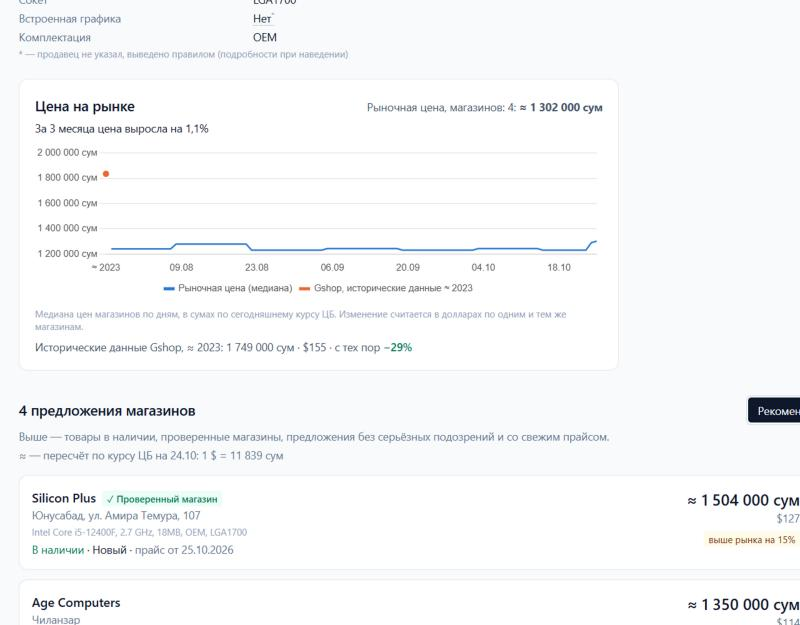
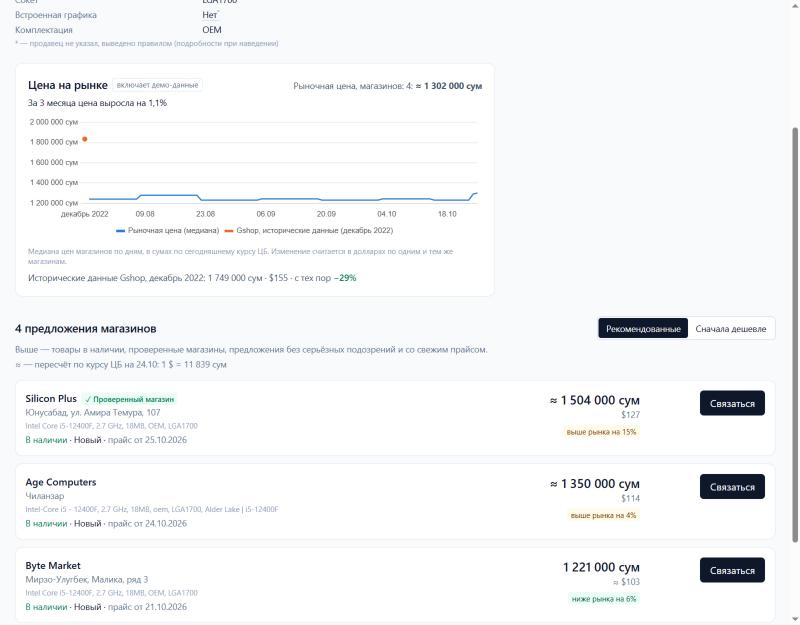
Gshop label from its date (December 2022) everywhere; 'includes demo data' mark with a hint on market charts and indices

diff --git a/frontend/src/components/Market.jsx b/frontend/src/components/Market.jsx
@@ -2,7 +2,7 @@ import { useMemo } from 'react'
 import { useTranslation } from 'react-i18next'
 import { Link } from 'react-router-dom'
 import LineChart, { SERIES_COLORS } from './LineChart'
-import { formatDayMonth, formatPrice, roundSum } from '../services/format'
+import { formatDayMonth, formatMonthYear, formatPrice, roundSum } from '../services/format'
 
 export const PERIODS = ['week', 'month', 'quarter']
 // Categories drawn on the index chart, each always in its own colour (colour follows the category)
@@ -18,6 +18,17 @@ const PCT_COLOR = (v) => (v > 0.5 ? 'text-rose-700' : v < -0.5 ? 'text-emerald-7
 
 export function PctText({ value }) {
   return <span className={`font-medium ${PCT_COLOR(value)}`}>{formatPct(value)}</span>
+}
+
+// Small mark where numbers are computed with the invented demo stores; the hint explains it
+export function DemoNote({ show }) {
+  const { t } = useTranslation()
+  if (!show) return null
+  return (
+    <span title={t('market.demoHint')} className="cursor-help whitespace-nowrap rounded border border-dashed border-slate-300 px-1.5 py-0.5 text-xs font-normal text-slate-500">
+      {t('market.demoNote')}
+    </span>
+  )
 }
 
 // "ниже рынка на 8%" / "по рынку" / "выше рынка на 12%"
@@ -41,7 +52,7 @@ export function ChangePhrase({ change }) {
   return <span>{t(`market.change.${key}`, { period, pct: formatPct(Math.abs(change.pct)).replace('+', '') })}</span>
 }
 
-// Product card: market price chart (median, in sums by today's rate), the change phrase, the ≈ 2023 point
+// Product card: market price chart (median, in sums by today's rate), the change phrase, the old price list point
 export function ProductMarket({ market, usdRate }) {
   const { t } = useTranslation()
   const info = market?.conditions?.new
@@ -49,11 +60,11 @@ export function ProductMarket({ market, usdRate }) {
   const toSum = (usd) => (usdRate ? roundSum(usd * usdRate) : usd)
   const chart = useMemo(() => {
     if (!info || info.series.length < 2) return null
-    const labels = [...(archive ? [t('market.archiveShort')] : []), ...info.series.map((p) => formatDayMonth(p.date))]
+    const labels = [...(archive ? [formatMonthYear(archive.date)] : []), ...info.series.map((p) => formatDayMonth(p.date))]
     const pad = archive ? [null] : []
     const datasets = [{ label: t('market.marketPrice'), color: SERIES_COLORS[0], data: [...pad, ...info.series.map((p) => toSum(p.usd))] }]
     if (archive) {
-      datasets.push({ label: t('market.archiveLabel', { store: archive.store }), color: SERIES_COLORS[1], points: 5,
+      datasets.push({ label: t('market.archiveLabel', { store: archive.store, date: formatMonthYear(archive.date) }), color: SERIES_COLORS[1], points: 5,
         data: [toSum(archive.price_usd), ...info.series.map(() => null)] })
     }
     return { labels, datasets }
@@ -63,7 +74,7 @@ export function ProductMarket({ market, usdRate }) {
   return (
     <div className="mt-6 max-w-3xl rounded-xl border border-slate-200 bg-white p-5">
       <div className="flex items-baseline justify-between gap-4">
-        <h2 className="text-lg font-semibold">{t('market.productTitle')}</h2>
+        <h2 className="flex items-center gap-2 text-lg font-semibold">{t('market.productTitle')} <DemoNote show={info?.includes_demo} /></h2>
         {info?.market_usd != null && (
           <p className="text-sm text-slate-600">
             {t('market.marketNow', { stores: info.stores })}: <b>≈ {formatValue(toSum(info.market_usd))}</b>
@@ -81,7 +92,7 @@ export function ProductMarket({ market, usdRate }) {
       )}
       {archive && (
         <p className="mt-2 text-sm text-slate-600">
-          {t('market.archiveLine', { store: archive.store })}: {archive.price_uzs != null && <>{formatPrice(archive.price_uzs, 'UZS')} · </>}
+          {t('market.archiveLine', { store: archive.store, date: formatMonthYear(archive.date) })}: {archive.price_uzs != null && <>{formatPrice(archive.price_uzs, 'UZS')} · </>}
           {formatPrice(archive.price_usd, 'USD')}
           {info?.market_usd != null && <> · {t('market.sinceArchive')} <PctText value={(info.market_usd / archive.price_usd - 1) * 100} /></>}
         </p>
@@ -91,7 +102,7 @@ export function ProductMarket({ market, usdRate }) {
 }
 
 // Category index: period switch, chart of the main categories, table of all of them
-export function IndexSection({ indices, period, onPeriod }) {
+export function IndexSection({ indices, period, onPeriod, demo }) {
   const { t } = useTranslation()
   const chart = useMemo(() => {
     const cats = CHART_CATEGORIES.filter((c) => indices.series[c])
@@ -106,7 +117,7 @@ export function IndexSection({ indices, period, onPeriod }) {
   return (
     <section className="rounded-xl border border-slate-200 bg-white p-6">
       <div className="flex items-center justify-between gap-4">
-        <h2 className="text-lg font-semibold">{t('market.indexTitle')}</h2>
+        <h2 className="flex items-center gap-2 text-lg font-semibold">{t('market.indexTitle')} <DemoNote show={demo} /></h2>
         <div className="flex rounded-md border border-slate-300 bg-white p-0.5 text-sm">
           {PERIODS.map((p) => (
             <button key={p} onClick={() => onPeriod(p)}

diff --git a/frontend/src/pages/MarketPage.jsx b/frontend/src/pages/MarketPage.jsx
@@ -1,15 +1,15 @@
 import { useEffect, useState } from 'react'
 import { useTranslation } from 'react-i18next'
 import { ErrorText } from '../components/AuthForm'
-import { IndexSection, PctText, ProductLink } from '../components/Market'
+import { DemoNote, IndexSection, PctText, ProductLink } from '../components/Market'
 import api, { errorKey } from '../services/api'
-import { formatPrice, roundSum } from '../services/format'
+import { formatMonthYear, formatPrice, roundSum } from '../services/format'
 
-function Movers({ title, items, sum }) {
+function Movers({ title, items, sum, demo }) {
   const { t } = useTranslation()
   return (
     <section className="rounded-xl border border-slate-200 bg-white p-6">
-      <h2 className="text-lg font-semibold">{title}</h2>
+      <h2 className="flex items-center gap-2 text-lg font-semibold">{title} <DemoNote show={demo} /></h2>
       {items.length === 0 ? <p className="mt-3 text-sm text-slate-500">{t('market.notEnoughData')}</p> : (
         <ul className="mt-3 grid gap-1.5 text-sm">
           {items.map((m) => (
@@ -38,6 +38,7 @@ export default function MarketPage() {
 
   if (error) return <ErrorText>{error}</ErrorText>
   if (!data) return null
+  const then = data.archive[0] ? formatMonthYear(data.archive[0].archive.date) : ''
   const sum = (usd) => (data.usd_rate ? `≈ ${formatPrice(roundSum(usd * data.usd_rate), 'UZS')}` : formatPrice(usd, 'USD'))
 
   return (
@@ -46,19 +47,19 @@ export default function MarketPage() {
         <h1 className="text-2xl font-semibold tracking-tight">{t('market.pageTitle')}</h1>
         <p className="mt-1 text-slate-500">{t('market.pageHint')}</p>
       </div>
-      <IndexSection indices={data.indices} period={period} onPeriod={setPeriod} />
+      <IndexSection indices={data.indices} period={period} onPeriod={setPeriod} demo={data.includes_demo} />
       <div className="grid grid-cols-2 gap-6">
-        <Movers title={t('market.moversUp')} items={data.movers.up} sum={sum} />
-        <Movers title={t('market.moversDown')} items={data.movers.down} sum={sum} />
+        <Movers title={t('market.moversUp')} items={data.movers.up} sum={sum} demo={data.includes_demo} />
+        <Movers title={t('market.moversDown')} items={data.movers.down} sum={sum} demo={data.includes_demo} />
       </div>
       <section className="rounded-xl border border-slate-200 bg-white p-6">
-        <h2 className="text-lg font-semibold">{t('market.archiveTitle')}</h2>
-        <p className="mt-1 text-sm text-slate-500">{t('market.archiveHint')}</p>
+        <h2 className="flex items-center gap-2 text-lg font-semibold">{t('market.archiveTitle', { date: then })} <DemoNote show={data.includes_demo} /></h2>
+        <p className="mt-1 text-sm text-slate-500">{t('market.archiveHint', { date: then })}</p>
         <table className="mt-4 w-full text-sm">
           <thead className="text-left text-slate-500">
             <tr>
               <th className="py-1 font-normal">{t('market.table.product')}</th>
-              <th className="py-1 text-right font-normal">{t('market.archiveShort')}</th>
+              <th className="py-1 text-right font-normal">{then}</th>
               <th className="py-1 text-right font-normal">{t('market.table.now')}</th>
               <th className="py-1 text-right font-normal">{t('market.table.change')}</th>
             </tr>
@@ -80,7 +81,7 @@ export default function MarketPage() {
             ))}
           </tbody>
         </table>
-        <p className="mt-3 text-xs text-slate-400">{t('market.archiveNote')}</p>
+        <p className="mt-3 text-xs text-slate-400">{t('market.archiveNote', { date: then })}</p>
       </section>
     </div>
   )

diff --git a/frontend/src/pages/SellerAnalyticsPage.jsx b/frontend/src/pages/SellerAnalyticsPage.jsx
@@ -2,7 +2,7 @@ import { useEffect, useState } from 'react'
 import { useTranslation } from 'react-i18next'
 import { Link } from 'react-router-dom'
 import { ErrorText } from '../components/AuthForm'
-import { IndexSection, MarketLabel, ProductLink } from '../components/Market'
+import { DemoNote, IndexSection, MarketLabel, ProductLink } from '../components/Market'
 import api, { errorKey } from '../services/api'
 import { formatPrice, roundSum } from '../services/format'
 
@@ -34,7 +34,7 @@ export default function SellerAnalyticsPage() {
       </div>
 
       <section className="rounded-xl border border-slate-200 bg-white p-6">
-        <h2 className="text-lg font-semibold">{t('market.positionTitle')}</h2>
+        <h2 className="flex items-center gap-2 text-lg font-semibold">{t('market.positionTitle')} <DemoNote show={data.includes_demo} /></h2>
         <p className="mt-1 text-sm text-slate-500">{t('market.positionHint')}</p>
         <div className="mt-4 grid grid-cols-4 gap-4">
           {['below', 'at', 'above'].map((k) => (
@@ -88,7 +88,7 @@ export default function SellerAnalyticsPage() {
         )}
       </section>
 
-      <IndexSection indices={data.indices} period={period} onPeriod={setPeriod} />
+      <IndexSection indices={data.indices} period={period} onPeriod={setPeriod} demo={data.includes_demo} />
     </div>
   )
 }

diff --git a/frontend/src/services/format.js b/frontend/src/services/format.js
@@ -25,6 +25,12 @@ export function formatDayMonth(iso) {
   return new Intl.DateTimeFormat(i18n.language || 'ru', { day: '2-digit', month: '2-digit' }).format(new Date(iso))
 }
 
+// "декабрь 2022" for an old price list date
+export function formatMonthYear(iso) {
+  const text = new Intl.DateTimeFormat(i18n.language || 'ru', { month: 'long', year: 'numeric' }).format(new Date(iso))
+  return text.replace(/\s*г\.$/, '')
+}
+
 // Converted amounts are approximate: sums rounded to 1 000, dollars to whole dollars
 export const roundSum = (value) => Math.round(value / 1000) * 1000
 export const roundUsd = (value) => Math.round(value)

diff --git a/backend/app/services/market.py b/backend/app/services/market.py
@@ -41,6 +41,11 @@ class MarketData:
     offer_usd: dict[int, float] = field(default_factory=dict)  # in-stock offer -> its USD price now
     offers: list[tuple[int, int, int, str]] = field(default_factory=list)  # (offer, product, store, condition)
     category: dict[int, str] = field(default_factory=dict)  # product -> category slug
+    # Stores whose prices are invented (scripts/seed_demo.py history is_demo): the pages say "includes demo data"
+    demo_stores: set[int] = field(default_factory=set)
+
+    def has_demo(self, key) -> bool:
+        return any(s in self.demo_stores for s in self.per_store.get(key, {}))
 
     def now(self, key) -> float | None:
         values = self.series.get(key)
@@ -83,10 +88,13 @@ def build_market(db: Session, today: date) -> MarketData:
     ).all()
     slugs = dict(db.execute(select(Category.id, Category.slug)).all())
     history: dict[int, list[tuple[date, float]]] = {}
-    for offer_id, price, currency, at in db.execute(
-        select(PriceHistory.offer_id, PriceHistory.price, PriceHistory.currency, PriceHistory.recorded_at)
-        .order_by(PriceHistory.recorded_at)
+    demo_offers: set[int] = set()
+    for offer_id, price, currency, at, is_demo in db.execute(
+        select(PriceHistory.offer_id, PriceHistory.price, PriceHistory.currency, PriceHistory.recorded_at,
+               PriceHistory.is_demo).order_by(PriceHistory.recorded_at)
     ):
+        if is_demo:
+            demo_offers.add(offer_id)
         usd = rates.usd(price, currency, at.date())
         if usd is not None:
             history.setdefault(offer_id, []).append((at.date(), usd))
@@ -98,6 +106,8 @@ def build_market(db: Session, today: date) -> MarketData:
             continue
         cond = condition.value if isinstance(condition, Condition) else condition
         md.offers.append((offer_id, product_id, store_id, cond))
+        if offer_id in demo_offers:
+            md.demo_stores.add(store_id)
         md.offer_usd[offer_id] = usd_now
         md.category[product_id] = slugs.get(category_id, "other")
         points = history.get(offer_id, [])
@@ -182,6 +192,7 @@ def product_market(db: Session, product_id: int, today: date | None = None) -> d
             series = md.series.get(key) or []
             result["conditions"][cond] = {
                 "stores": md.stores.get(key, 0),
+                "includes_demo": md.has_demo(key),
                 "market_usd": round(market, 2) if market is not None else None,
                 "change": change(md, key),
                 "series": [{"date": d.isoformat(), "usd": round(v, 2)} for d, v in zip(md.dates, series)
@@ -248,7 +259,7 @@ def movers(db: Session, md: MarketData, days: int = HISTORY_DAYS, limit: int = 8
 
 
 def popular_with_archive(db: Session, md: MarketData, limit: int = 10) -> list[dict]:
-    """"≈ 2023 -> now" for popular products that are both in an old price list and on the market now."""
+    """"Then (old price list) -> now" for popular products that are both in an old price list and on the market now."""
     candidates = [pid for (pid, cond), v in md.series.items() if cond == "new" and v[-1] is not None]
     archive = _archive(db, candidates)
     ranked = sorted(archive, key=lambda pid: (-md.stores[(pid, "new")], -md.now((pid, "new"))))[:limit]

diff --git a/backend/tests/test_market.py b/backend/tests/test_market.py
@@ -170,3 +170,16 @@ def test_product_market_has_archive_point_without_build_only_prices(db):
     assert result["archive"]["price_usd"] == 155 and result["archive"]["store"] == "Gshop"
     assert result["conditions"]["new"]["market_usd"] == 105
     assert result["conditions"]["new"]["change"] is None  # history of one day only
+
+
+def test_demo_history_marks_its_stores(db):
+    s = _stores(db, 3)
+    p, real = _product(db, "Kingston Fury 16GB"), _product(db, "Lexar Ares 32GB")
+    demo = _offer(db, p, s[0], 100)
+    demo.price_history[0].is_demo = True
+    _offer(db, p, s[1], 110)
+    _offer(db, real, s[1], 50)
+    _offer(db, real, s[2], 52)
+    md = market.build_market(db, TODAY)
+    assert md.demo_stores == {s[0].id}
+    assert md.has_demo((p.id, "new")) and not md.has_demo((real.id, "new"))

diff --git a/backend/app/api/market.py b/backend/app/api/market.py
@@ -16,7 +16,11 @@ def usd_rate_info(db: Session) -> dict:
 
 @router.get("/overview")
 def overview(period: str = PERIOD, db: Session = Depends(get_db)):
-    """Public "Prices on the market": category indices, biggest risers and fallers, "≈ 2023 -> now"."""
+    """Public "Prices on the market": category indices, biggest risers and fallers, "then -> now" by old price lists.
+
+    `includes_demo`: some market prices are computed with the invented demo stores.
+    """
     md = market_data(db)
     return {"indices": index_table(md, period), "movers": movers(db, md), "archive": popular_with_archive(db, md),
+            "includes_demo": bool(md.demo_stores),
             **usd_rate_info(db)}

diff --git a/backend/app/db/models.py b/backend/app/db/models.py
@@ -82,7 +82,7 @@ class Store(Base):
     address: Mapped[str | None] = mapped_column(String(255))
     district: Mapped[str | None] = mapped_column(String(128))
     is_verified: Mapped[bool] = mapped_column(Boolean, default=False)
-    # Archive source (an old price list of a shop, e.g. Gshop 2023): its prices go only to the price history
+    # Archive source (an old price list of a shop, e.g. Gshop, Dec 2022): its prices go only to the price history
     is_archive: Mapped[bool] = mapped_column(Boolean, default=False, server_default="0")
 
     owner: Mapped[User] = relationship(back_populates="stores")

diff --git a/backend/scripts/load_archive.py b/backend/scripts/load_archive.py
@@ -3,7 +3,7 @@
 The price date is taken from the file metadata (last saved), unless given. Re-running updates the same rows.
 Usage (from backend/):
   .venv/Scripts/python.exe scripts/load_archive.py "F:/claudy/samples/old_store_2023.xlsx" --store Gshop
-  .venv/Scripts/python.exe scripts/load_archive.py <file> --store Gshop --date 2023-06-15
+  .venv/Scripts/python.exe scripts/load_archive.py <file> --store Gshop --date 2022-12-08
   .venv/Scripts/python.exe scripts/load_archive.py --store Gshop --delete
 """
 

diff --git a/backend/app/api/seller.py b/backend/app/api/seller.py
@@ -186,4 +186,4 @@ def market_analytics(period: str = Query("quarter", pattern=f"^({'|'.join(PERIOD
     store = _require_store(db, user)
     md = market_data(db)
     return {"indices": index_table(md, period), "position": seller_position(db, md, store.id),
-            "missing": missing_popular(db, md, store.id), **usd_rate_info(db)}
+            "missing": missing_popular(db, md, store.id), "includes_demo": bool(md.demo_stores), **usd_rate_info(db)}

diff --git a/docs/history.md b/docs/history.md
@@ -178,7 +178,7 @@ npm run dev        # http://localhost:5173 (backend должен быть зап
 - Тест `tests/test_seed_demo.py`: одна карточка у 4 магазинов, магазин в UZS, флаг только у дешёвого товара PC Galaxy, повторный запуск не меняет число пользователей, магазинов, предложений, истории и флагов. Всего тестов 62.
 
 ### Gshop (`F:\claudy\samples\old_store_2023.xlsx`) — заметки для фаз 6 и 7 (в фазе 6 загружен в архив цен, см. «Фаза 6»)
-- Цены 2023 года → только как исторические данные в фазе 6 (с датой 2023, подпись «исторические данные»), не в каталог и не в текущие предложения.
+- Цены декабря 2022 года (по метаданным файла) → только как исторические данные в фазе 6 (подпись «исторические данные, декабрь 2022»), не в каталог и не в текущие предложения.
 - Структура (фаза 7): 2 листа («Комплектующие, мониторы», «Периферия, роутеры, кресла»), ~490 строк и 10 столбцов на листе; **три таблицы «наименование | цена» бок о бок**, у каждой свои подзаголовки разделов («ПРОЦЕССОРЫ INTEL», «КОРПУСА LIAN LI», «ИГРОВЫЕ МОНИТОРЫ PIXEL»), иногда два уровня (бренд → тип: «ПЕРИФЕРИЯ JBL» → «НАУШНИКИ»). Лист нужно делить на вертикальные блоки и отслеживать разделы в каждом отдельно.
 - Строка «Оплата производится только в национальной валюте!!!» вверху, но цены — явно в USD (58, 155, 335): эта строка не определяет валюту, показывать продавцу как подсказку.
 - У многих позиций цены нет (пустая ячейка) → «нет в наличии». Характеристики через обратную косую черту («2С\4T 3,6-4,0 GHz»), неразрывные пробелы, кириллические буквы внутри моделей («11700К»), опечатки («Curverd»), пометки «(Tray)/(box)».
@@ -320,7 +320,7 @@ npm run dev        # http://localhost:5173 (backend должен быть зап
 - Реализация: `services/market.py` (расчёт в памяти ~0,3 с на 3,5 тыс. предложений, кэш до изменения предложений или истории); API — блок `market` в карточке товара, `/api/market/overview`, `/api/seller/analytics`. Тесты — `tests/test_market.py`.
 
 ### Исторические данные Gshop
-- Дата прайса — из метаданных файла: **сохранён 08.12.2022** (создан в 2018). Содержимое соответствует: самые новые позиции — RTX 4080, i7-13700KF, Z790 (осень 2022), моделей 2023 года (RTX 4060, i5-13400, Ryzen 7800X3D) нет. В интерфейсе подпись «исторические данные, ≈ 2023», как решено; в базе хранится точная дата, курс ЦБ на неё — 11 284,90 сум.
+- Дата прайса — из метаданных файла: **сохранён 08.12.2022** (создан в 2018). Содержимое соответствует: самые новые позиции — RTX 4080, i7-13700KF, Z790 (осень 2022), моделей 2023 года (RTX 4060, i5-13400, Ryzen 7800X3D) нет. В интерфейсе подпись «декабрь 2022» (решение Азиза; берётся из даты в базе, а не из текста), курс ЦБ на эту дату — 11 284,90 сум.
 - Загружается **только в архив** (`archive_prices`): не в текущие предложения, не в каталог, не в Anti-Fraud. Магазин Gshop отмечен `stores.is_archive` (войти в него нельзя — случайный пароль). Команда: `scripts/load_archive.py "F:/claudy/samples/old_store_2023.xlsx" --store Gshop` (повторный запуск обновляет те же строки, `--delete` удаляет архив магазина).
 - Поддержка блоков (`services/sheet_blocks.py`, пригодится в фазе 7): столбцы цен находятся по содержимому (≥30% чисел), слева от каждого — название; поэтому работает и когда у среднего блока нет заголовка «Наименование». Подзаголовки разделов отслеживаются в каждом блоке отдельно, два уровня («ПЕРИФЕРИЯ JBL / НАУШНИКИ»); товар без цены, написанный капсом, отличается от заголовка по коду модели («MSI PRO B660M-E LGA 1700 DDR4»). «Оплата … в национальной валюте!!!» — объявление магазина, не товар и не валюта (цены — USD). «(Только в сборках)» → пометка `only_in_builds`, такие цены в сравнения не идут.
 - Итог разбора: 2 листа × 3 блока, **2 089 строк товаров, с ценой 1 316** (уникальных 1 307), без цены 773, «только в сборках» 6.
@@ -328,8 +328,8 @@ npm run dev        # http://localhost:5173 (backend должен быть зап
 - Почему мало: за ~4 года ассортимент сменился (RTX 30-й серии, Z690, DDR4-комплекты, AM4 почти ушли из продажи), а где модель та же, магазины продают другие модификации (Lian Li LANCOOL 205 ≠ LANCOOL 205 MESH, MSI RTX 3050 VENTUS 2X 8G ≠ VENTUS 2X XS OC). Примеры несопоставленных: «MSI GeForce RTX 3070 GAMING Z TRIO 8G» (такой карточки нет), «Arctic Cooling Freezer 50 TR», «ID Cooling AuraFlow X240», «Samsung 980 PRO 1TB Heatsink» (в каталоге только «Samsung 980 1TB»), «Lian Li LANCOOL 205 Black» (в каталоге только MESH).
 - Сопоставленные: процессоры Intel 12–13 поколения (8), AMD Ryzen 5600X / 5700X / 5800X, корпуса Jonsbo / Sharkoon / Thermaltake / Cooler Master, БП MSI A550BN и Lian Li SP750, СЖО MSI и Jonsbo, гарнитуры MSI / Sharkoon / Edifier, кресло MSI CH120.
 
-### Цены: декабрь 2022 (≈ 2023) → октябрь 2026, USD
-| Товар | ≈ 2023 (Gshop) | Сейчас (медиана, магазинов) | Изменение |
+### Цены: декабрь 2022 → октябрь 2026, USD
+| Товар | Декабрь 2022 (Gshop) | Сейчас (медиана, магазинов) | Изменение |
 |---|---|---|---|
 | AMD Ryzen 7 5700X | $220 | $128,5 (4) | −41,6% |
 | AMD Ryzen 5 5600X | $180 | $115 (4) | −36,1% |
@@ -341,16 +341,17 @@ npm run dev        # http://localhost:5173 (backend должен быть зап
 | Intel Core i7-12700K | $390 | $279 (2) | −28,5% |
 | Intel Core i3-12100F | $102 | $87 (3) | −14,7% |
 | Корпус Jonsbo UMX6-G Silver | $156 | $145 (3) | −7,1% |
-- Вывод: модели, которые в конце 2022 года были новинками, к 2026 году подешевели в долларах на 15–40% (процессоры — на 30–40%), корпуса почти не дешевеют. Курс за это время вырос с 11 285 до 11 839 сум за доллар (+5%), поэтому в сумах снижение немного меньше. Оговорки: «сейчас» — медиана с участием демо-магазинов (их цены — цены Age Computers ±5–15%); «≈ 2023» — цена одного магазина, а не рынка.
+- Вывод: модели, которые в конце 2022 года были новинками, к 2026 году подешевели в долларах на 15–40% (процессоры — на 30–40%), корпуса почти не дешевеют. Курс за это время вырос с 11 285 до 11 839 сум за доллар (+5%), поэтому в сумах снижение немного меньше. Оговорки: «сейчас» — медиана с участием демо-магазинов (их цены — цены Age Computers ±5–15%); «декабрь 2022» — цена одного магазина, а не рынка.
 
 ### Демо-история
 - `scripts/seed_demo.py` дописывает каждому предложению демо-магазинов 7 прошлых цен (92, 78, 64, 50, 36, 22 и 10 дней назад): линейный тренд к сегодняшней цене + собственное колебание магазина ±2%. Тренды за 3 месяца: **ОЗУ +24%**, SSD +9%, видеокарты −4%, остальное без тренда. Цены в сумах (Byte Market) пересчитаны по курсу ЦБ того дня (курсы загружены из архива cbu.uz).
 - Помечена `price_history.is_demo = 1`: удалить одной командой `DELETE FROM price_history WHERE is_demo = 1`. Повторный запуск заменяет демо-историю (12 971 точка), дублей нет. Реальная история Age Computers не трогается.
 
 ### Интерфейс
-- Карточка товара: блок «Цена на рынке» — рыночная цена и число магазинов, фраза-итог, график медианы по дням (в сумах по сегодняшнему курсу, чтобы курс не искажал форму), отдельная точка «≈ 2023» Gshop и строка «с тех пор −29%»; метка у каждого предложения в наличии. Товар у одного магазина — «Недостаточно данных».
+- Карточка товара: блок «Цена на рынке» — рыночная цена и число магазинов, фраза-итог, график медианы по дням (в сумах по сегодняшнему курсу, чтобы курс не искажал форму), отдельная точка Gshop «декабрь 2022» и строка «с тех пор −29%»; метка у каждого предложения в наличии. Товар у одного магазина — «Недостаточно данных».
 - Кабинет продавца → «Аналитика рынка» (`/seller/analytics`): сколько товаров дешевле / по рынку / дороже, 10 самых больших отклонений со ссылками, топ-10 «популярное у конкурентов, чего нет у вас» (больше всего магазинов; не больше 3 из одной категории, «Прочее» в конце), индексы категорий (график + таблица неделя / месяц / 3 месяца).
-- Публичная страница «Цены на рынке» (`/market`, ссылка в шапке): индексы, самые подорожавшие и подешевевшие за 3 месяца, «≈ 2023 → 2026» для 10 популярных товаров с данными Gshop.
+- Публичная страница «Цены на рынке» (`/market`, ссылка в шапке): индексы, самые подорожавшие и подешевевшие за 3 месяца, «декабрь 2022 → сегодня» для 10 популярных товаров с данными Gshop.
+- Пометка «включает демо-данные» (с подсказкой при наведении) — у графика и рыночной цены в карточке, если среди магазинов товара есть демо-магазин; у индексов, самых подорожавших/подешевевших, сравнения с Gshop и «Ваши цены относительно рынка», пока в базе есть демо-история. Демо-магазины = магазины, у предложений которых есть история `is_demo`; после `DELETE … WHERE is_demo = 1` пометка пропадает сама.
 - Графики: Chart.js 4.4.7 (одна библиотека, `components/LineChart.jsx`), единая проверенная палитра, цвет закреплён за категорией, подписи через i18n.
 - Проверено в браузере (скриншоты `docs/screenshots/6_*`): i5-12400F — рынок ≈ 1 302 000 сум у 4 магазинов, «За 3 месяца цена выросла на 1,1%», метки: Silicon Plus «выше рынка на 15%», Age «выше на 4%», Byte Market «ниже на 6%», точка Gshop $155; кабинет demo1 — 214 дешевле / 117 по рынку / 206 дороже; ОЗУ +24,4% за 3 месяца, все 8 самых подорожавших — ОЗУ; Inno3D RTX 5060Ti у одного магазина — «Недостаточно данных». Тестов: 156.
 

diff --git a/docs/roadmap.md b/docs/roadmap.md
@@ -91,7 +91,7 @@
 - Индекс цен по категории: средняя/медиана, мин/макс, изменение за неделю/месяц.
 - Кабинет продавца: «Аналитика рынка» — графики по категориям, где его цены выше/ниже рынка.
 - Карточка товара: метка «ниже/выше рынка», мини-график цены.
-- Исторические данные: импорт Gshop (`samples/old_store_2023.xlsx`) как архивных цен с датой 2023 года — только в историю, НЕ в текущие предложения и не в каталог. Подпись «исторические данные, 2023».
+- Исторические данные: импорт Gshop (`samples/old_store_2023.xlsx`) как архивных цен (по метаданным — декабрь 2022) — только в историю, НЕ в текущие предложения и не в каталог. Подпись «исторические данные, декабрь 2022».
 - Если нужно, демо-история цен для демо-магазинов за последние месяцы (помечена как демо).
 
 ## Фаза 7 — Грязные прайсы и замер точности
